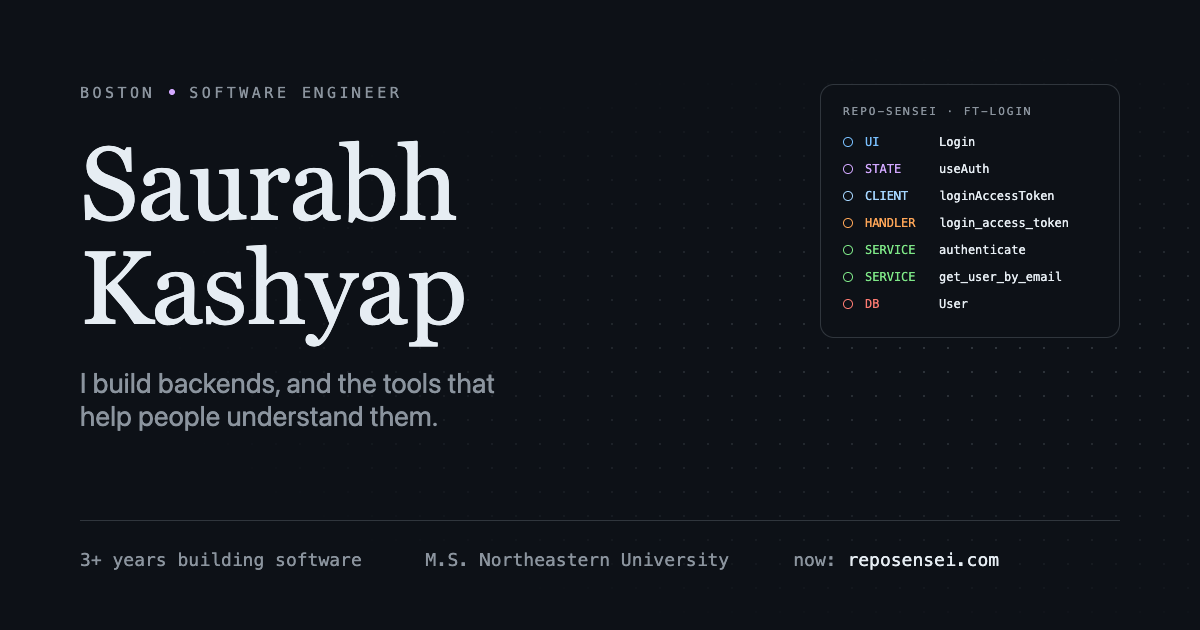
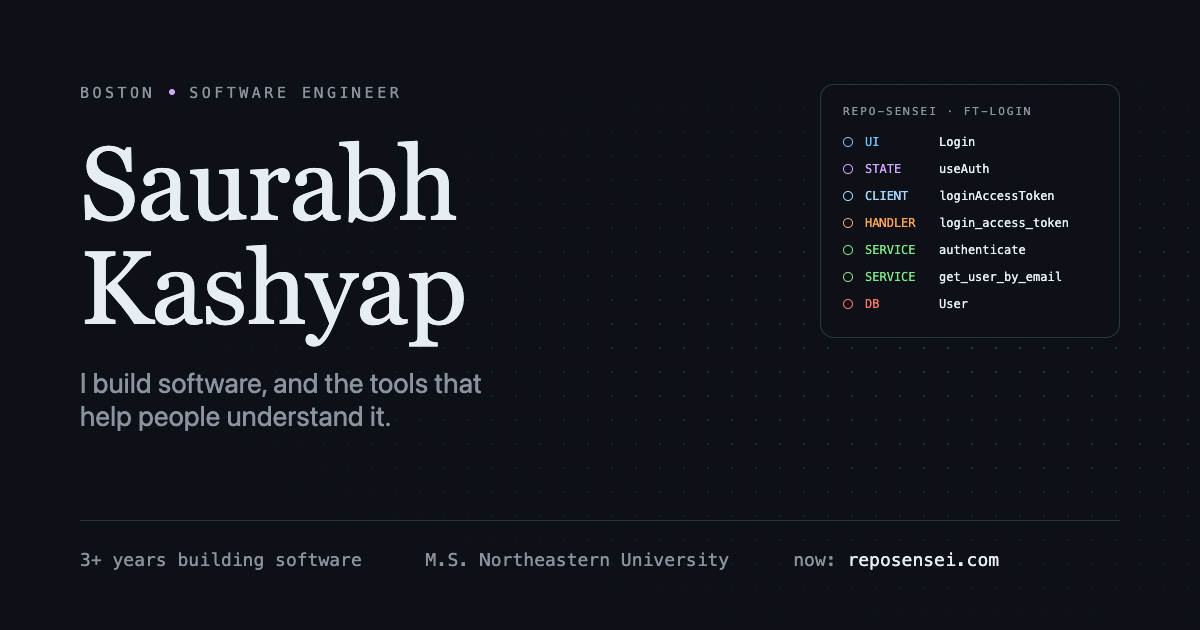
Update the Experience section and the tagline

Changed region(s): [[0.1233, 0.573, 0.4317, 0.6937]]

diff --git a/lib/content.ts b/lib/content.ts
@@ -2,13 +2,14 @@
 
    Sources: ~/Documents/SaurabhBrain/Me/about.md, the GitHub profile README
    (github.com/K-sau07) and each project's repo. No number appears here that isn't
-   published somewhere I can point to. The current employer is never named. */
+   published somewhere I can point to. The current employer is named only in
+   Experience (and on the résumé), never in the headline copy. */
 
 export const profile = {
   name: "Saurabh Kashyap",
   role: "Software Engineer",
   city: "Boston",
-  line: "I build backends, and the tools that help people understand them.",
+  line: "I build software, and the tools that help people understand it.",
   facts: ["3+ years building software", "M.S. Northeastern University"],
   now: { label: "reposensei.com", href: "https://reposensei.com" },
   email: "saurabh.k@itjobinbox.com",
@@ -165,7 +166,6 @@ export const earlier: Earlier[] = [
 
 export interface Role {
   title: string;
-  /** the current employer is described, never named */
   org: string;
   where: string;
   when: string;
@@ -176,7 +176,7 @@ export interface Role {
 export const experience: Role[] = [
   {
     title: "Software Engineer",
-    org: "Enterprise workflow platform",
+    org: "ServiceNow",
     where: "Massachusetts",
     when: "Feb 2026 to now",
     bullets: [

diff --git a/app/layout.tsx b/app/layout.tsx
@@ -7,8 +7,8 @@ import "./globals.css";
 
 const TITLE = "Saurabh Kashyap · Software Engineer";
 const DESCRIPTION =
-  "Software engineer in Boston. I build backends, and the tools that help people " +
-  "understand them, like repo-sensei, a search engine for your whole codebase.";
+  "Software engineer in Boston. I build software, and the tools that help people " +
+  "understand it, like repo-sensei, a search engine for your whole codebase.";
 
 export const metadata: Metadata = {
   // Unfurlers (LinkedIn, Slack, iMessage) need absolute image URLs.
